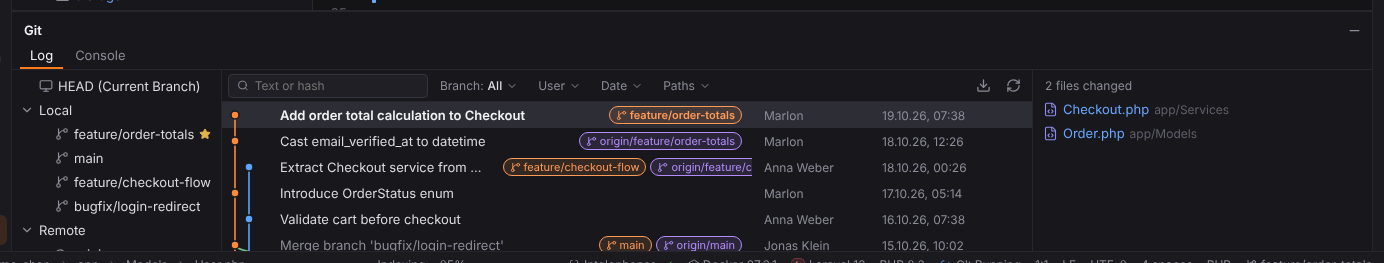
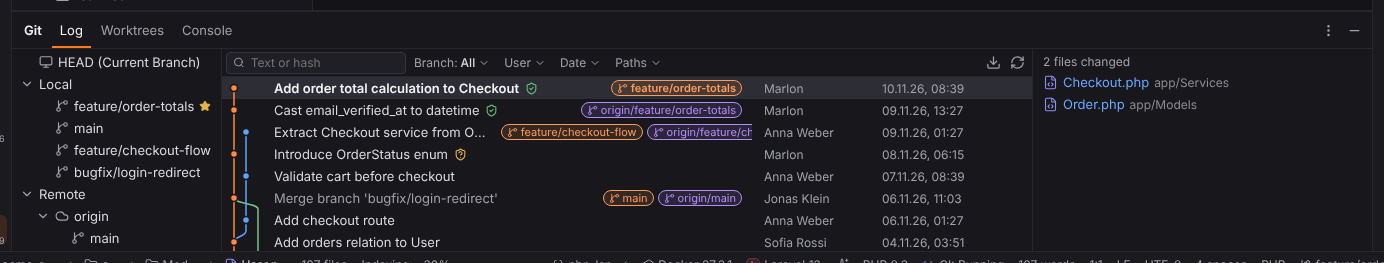
feat: make the Git tool window compact

diff --git a/app/ui/src/features/git/git.css b/app/ui/src/features/git/git.css
@@ -385,25 +385,36 @@
   display: flex;
   flex-direction: column;
 }
+/* The tabs sit in the tool window header, next to the title. */
 .git-tabs {
   display: flex;
+  align-self: stretch;
   gap: 2px;
-  padding: 0 8px;
-  height: 28px;
-  border-bottom: 1px solid var(--border);
-  flex-shrink: 0;
-  margin-top: -6px;
+  min-width: 0;
+  overflow: hidden;
 }
 .git-tab {
   display: inline-flex;
   align-items: center;
-  padding: 0 10px;
+  padding: 0 8px;
   color: var(--fg-muted);
+  border-top: 2px solid transparent;
   border-bottom: 2px solid transparent;
+  white-space: nowrap;
+  cursor: default;
 }
 .git-tab.active {
   color: var(--fg-strong);
   border-bottom-color: var(--accent);
+}
+/* One border under the header instead of a tab row. */
+.git-panel {
+  border-top: 1px solid var(--border);
+}
+/* Compact rows in the branches tree and the changed files, like the commit list. */
+.git-panel .log-branches .tree-row,
+.git-panel .log-files .tree-row {
+  height: 22px;
 }
 .git-log {
   flex: 1;
@@ -414,7 +425,7 @@
 .log-branches {
   overflow: auto;
   border-right: 1px solid var(--border);
-  padding: 4px 0;
+  padding: 2px 0;
 }
 .log-current-star {
   color: var(--ref-tag);
@@ -426,16 +437,22 @@
   min-width: 0;
 }
 .log-filters {
-  gap: 4px;
+  gap: 2px;
+  height: 28px;
+  padding: 0 4px;
   border-bottom: 1px solid var(--border);
+}
+.log-filters .icon-btn {
+  width: 22px;
+  height: 22px;
 }
 .log-search {
   display: flex;
   align-items: center;
   gap: 6px;
-  height: 24px;
-  padding: 0 8px;
-  width: 200px;
+  height: 22px;
+  padding: 0 6px;
+  width: 180px;
   border: 1px solid var(--border-strong);
   border-radius: var(--radius-sm);
   background: var(--bg-input);
@@ -449,10 +466,11 @@
   font-size: var(--fs-small);
 }
 .log-filter {
-  height: 24px;
+  height: 22px;
+  padding: 0 6px;
   font-size: var(--fs-small);
   color: var(--fg-muted);
-  gap: 4px;
+  gap: 3px;
 }
 .log-filter b {
   color: var(--fg);
@@ -467,7 +485,7 @@
   display: grid;
   grid-template-columns: minmax(0, 1fr) 130px 140px;
   align-items: center;
-  height: 26px;
+  height: 22px;
   padding-right: 10px;
   cursor: default;
   white-space: nowrap;
@@ -528,9 +546,9 @@
   display: inline-flex;
   align-items: center;
   gap: 3px;
-  height: 18px;
-  padding: 0 6px;
-  border-radius: 9px;
+  height: 16px;
+  padding: 0 5px;
+  border-radius: 8px;
   font-size: 11px;
   flex-shrink: 0;
   border: 1px solid currentColor;
@@ -570,7 +588,7 @@
   border-bottom: 1px solid var(--border);
 }
 .log-files-title {
-  padding: 8px 12px 4px;
+  padding: 5px 10px 2px;
   font-size: var(--fs-small);
   color: var(--fg-muted);
 }

diff --git a/app/ui/src/features/git/GitLogPanel.tsx b/app/ui/src/features/git/GitLogPanel.tsx
@@ -1,5 +1,7 @@
 /**
- * Git tool window (Alt+9), Log tab: branches | commit graph | details. Commits are selected
+ * Git tool window (Alt+9), Log tab: branches | commit graph | details. The tabs (Log,
+ * Worktrees, history tabs) are in the tool window header (`GitTabs`), so the window has a
+ * single compact toolbar row. Commits are selected
  * with click, Ctrl+click and Shift+click; the context menu holds the Log actions
  * (`logActions.ts`).
  */
@@ -23,7 +25,7 @@ import { revision, status } from "./store";
 import { layoutGraph, type GraphRow } from "./graph";
 import { fullDate, logDate } from "./format";
 import { checkout, fetchAll, showCommitDiff } from "./actions";
-import { GitTabs, HistoryTabs } from "./FileHistoryPanel";
+import { HistoryTabs } from "./FileHistoryPanel";
 import { activeGitTab, setActiveGitTab } from "./history";
 import { goToRelative, openLogMenu, setLogView } from "./logActions";
 import { showToolWindow } from "@/state/layout";
@@ -32,8 +34,9 @@ import { SignatureIcon, signatureLabel } from "./signature";
 import { t as tr } from "@/i18n";
 
 const PAGE = 200;
-const LANE = 14;
-const ROW = 26;
+// Compact rows like PHPStorm's Log; keep in sync with `.log-row` in git.css.
+const LANE = 12;
+const ROW = 22;
 
 const [filterRev, setFilterRev] = createSignal<string | null>(null);
 const [filterText, setFilterText] = createSignal("");
@@ -72,13 +75,13 @@ function Graph(props: { row: GraphRow; width: number }) {
             x1 === x2
               ? `M${x1} ${y1}L${x2} ${y2}`
               : `M${x1} ${y1}C${x1} ${(y1 + y2) / 2} ${x2} ${(y1 + y2) / 2} ${x2} ${y2}`;
-          return <path d={d} stroke={`var(--graph-${l.color % 7})`} stroke-width="1.6" fill="none" />;
+          return <path d={d} stroke={`var(--graph-${l.color % 7})`} stroke-width="1.5" fill="none" />;
         }}
       </For>
       <circle
         cx={x(props.row.lane)}
         cy={ROW / 2}
-        r="4"
+        r="3.5"
         fill={`var(--graph-${props.row.color % 7})`}
         stroke="var(--bg-panel)"
         stroke-width="1.5"
@@ -328,7 +331,6 @@ export function GitLogPanel() {
 
   return (
     <div class="git-panel">
-      <GitTabs />
       <div class="git-log" classList={{ hidden: activeGitTab() !== "log" }}>
         <BranchTree branches={branches()} />
         <div class="log-main">

diff --git a/app/ui/src/features/git/gitToolWindow.test.tsx b/app/ui/src/features/git/gitToolWindow.test.tsx
@@ -1,0 +1,34 @@
+import { afterEach, describe, expect, it } from "vitest";
+import { render } from "solid-js/web";
+import "@/mock/workspaceMock";
+import "@/mock/gitMock";
+import "@/mock/gitOpsMock";
+import { findToolWindow } from "@/features/registry";
+import "./index";
+
+let dispose: (() => void) | undefined;
+afterEach(() => {
+  dispose?.();
+  dispose = undefined;
+});
+
+describe("compact Git tool window", () => {
+  it("shows its tabs in the tool window header, not in a row of their own", () => {
+    const git = findToolWindow("git")!;
+    expect(git.headerContent).toBeTypeOf("function");
+    const header = document.createElement("div");
+    const body = document.createElement("div");
+    document.body.append(header, body);
+    const disposeHeader = render(() => git.headerContent!(), header);
+    const Body = git.component;
+    const disposeBody = render(() => <Body />, body);
+    dispose = () => (disposeHeader(), disposeBody());
+
+    const tabs = [...header.querySelectorAll("[role=tab]")].map((t) => t.textContent?.trim());
+    expect(tabs.slice(0, 2)).toEqual(["Log", "Worktrees"]);
+    expect(body.querySelector(".git-panel")).not.toBeNull();
+    expect(body.querySelector(".git-tabs, [role=tablist]")).toBeNull();
+    // One toolbar row: the log filters.
+    expect(body.querySelectorAll(".git-log .panel-toolbar").length).toBe(1);
+  });
+});

diff --git a/app/ui/src/features/git/index.ts b/app/ui/src/features/git/index.ts
@@ -12,6 +12,7 @@ import type { FileEntry } from "@/ipc/workspace";
 import { showToolWindow } from "@/state/layout";
 import { CommitTabs, CommitToolWindow } from "./StashShelfPanels";
 import { GitLogPanel } from "./GitLogPanel";
+import { GitTabs } from "./FileHistoryPanel";
 import { GitOverlays } from "./GitOverlays";
 import { gitEditorExtensions, showChangeMarker } from "./editorGit";
 import { editor } from "@/state/editor";
@@ -67,6 +68,8 @@ registerToolWindow({
   order: 60,
   shortcut: "Alt+9",
   component: GitLogPanel,
+  // Tabs next to the title, like PHPStorm: no separate tab row below the header.
+  headerContent: GitTabs,
 });
 
 registerEditorExtension(({ path }) => gitEditorExtensions(path));

diff --git a/docs/guide/user/git.md b/docs/guide/user/git.md
@@ -529,6 +529,13 @@ The **Git** tool window (`Alt+9`, bottom) has a **Log** tab with the commit grap
 
 ![Git log](../../screenshots/vcs-log.png)
 
+The window is compact, like PHPStorm's: the tabs (**Log**, **Worktrees**, history tabs) are in
+the tool window header next to the **Git** title instead of in a row of their own, there is one
+slim toolbar with the filters, and the commits, branches and changed files use 22 px rows. At
+its default height the window shows the toolbar and a handful of commits:
+
+![Compact Git tool window](../../screenshots/git-tool-window-compact.png)
+
 - Filter by text or hash, branch, user, date and paths; **Show all branches**. Click
   **HEAD (Current Branch)** in the branches pane to see only the current branch.
 - Select a commit to see its changed files; open their diffs from there. `Ctrl+click` and
